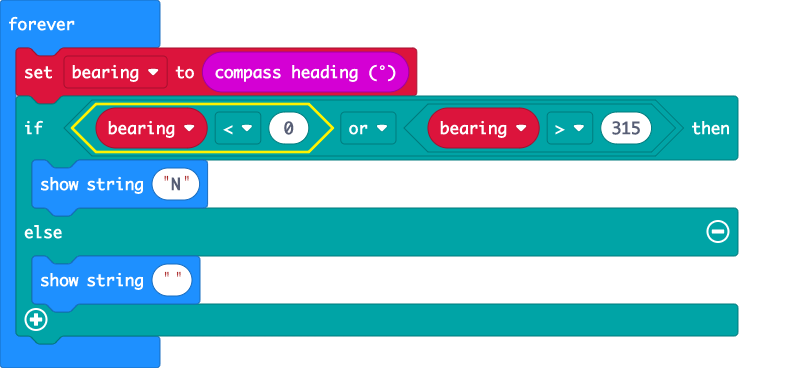
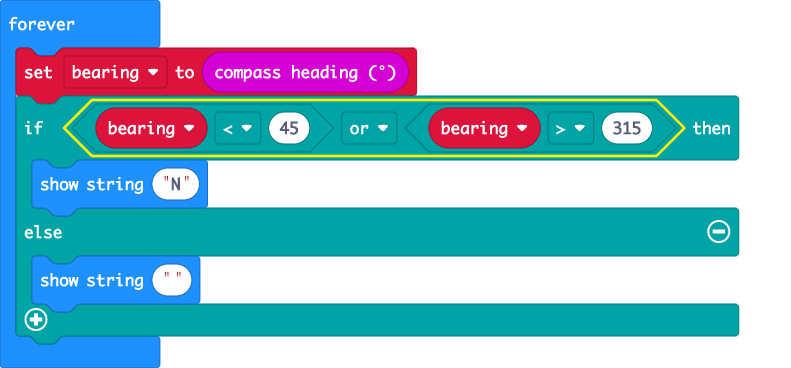
Update main.blocks, main.ts

diff --git a/main.ts b/main.ts
@@ -1,7 +1,7 @@
 let bearing = 0
 basic.forever(function () {
     bearing = input.compassHeading()
-    if (bearing < 0 || bearing > 315) {
+    if (bearing < 45 || bearing > 315) {
         basic.showString("N")
     } else {
         basic.showString("")
